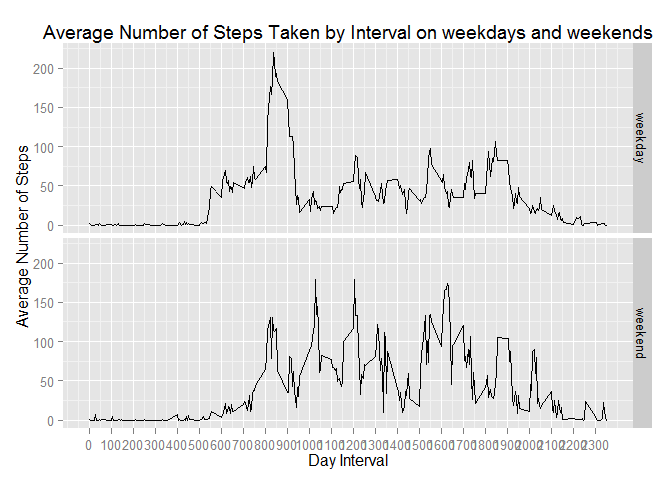
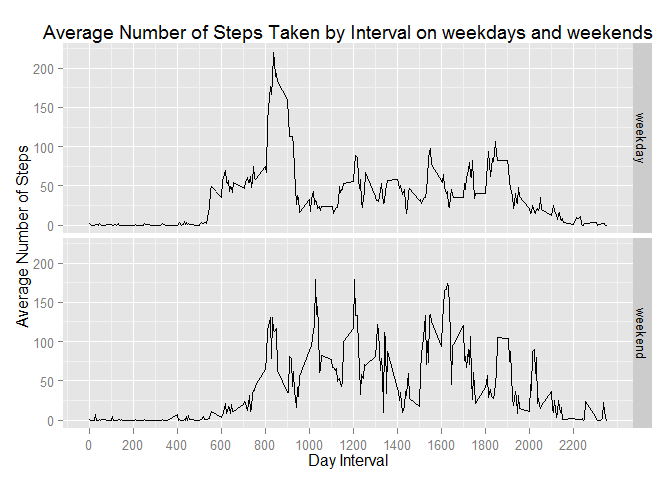
updated time series plots

diff --git a/PA1_template.html b/PA1_template.html
@@ -111,9 +111,9 @@ hplot</code></pre>
 <h2>What is the average daily activity pattern?</h2>
 <p>Lets make a time series plot (i.e. type = “l”) of the 5-minute interval (x-axis) and the average number of steps taken, averaged across all days (y-axis)</p>
 <pre class="r"><code>groupby_Interval &lt;- data %&gt;% group_by(interval)%&gt;% summarize (avgSteps = mean (steps, na.rm = TRUE))
-lplot &lt;- ggplot(data = groupby_Interval, mapping = aes(x = interval, y= avgSteps)) + geom_line(colour = &quot;blue&quot;) + scale_x_continuous(&quot;interval of the day&quot;, breaks = seq(min(groupby_Interval$interval), max(groupby_Interval$interval), 100)) + scale_y_continuous(&quot;Average Number of Steps&quot;) +  ggtitle(&quot;Average Number of Steps taken by interval&quot;)
+lplot &lt;- ggplot(data = groupby_Interval, mapping = aes(x = interval, y= avgSteps)) + geom_line(colour = &quot;blue&quot;) + scale_x_continuous(&quot;interval of the day&quot;, breaks = seq(min(groupby_Interval$interval), max(groupby_Interval$interval), 200)) + scale_y_continuous(&quot;Average Number of Steps&quot;) +  ggtitle(&quot;Average Number of Steps taken by interval&quot;)
 lplot</code></pre>
[2 lines of base64/hex data omitted]
 <pre class="r"><code>interval_MaxSteps &lt;- filter (groupby_Interval, avgSteps == max(groupby_Interval$avgSteps) )
 interval_MaxSteps</code></pre>
 <pre><code>## Source: local data frame [1 x 2]
@@ -159,10 +159,11 @@ hplot2</code></pre>
 <p>Group by interval and dayType and claculate Average number of steps</p>
 <pre class="r"><code>groupby_IntervalDaytype &lt;- data2 %&gt;% group_by(interval, dayType) %&gt;% summarise(avg2Steps = mean(steps))</code></pre>
 <pre class="r"><code>lplot_panel &lt;- ggplot(data = groupby_IntervalDaytype, mapping = aes(x = interval, y = avg2Steps)) +  geom_line() + facet_grid(dayType ~ .) + scale_x_continuous(&quot;Day Interval&quot; , 
-    breaks = seq(min(groupby_IntervalDaytype$interval), max(groupby_IntervalDaytype$interval), 100)) + 
+    breaks = seq(min(groupby_IntervalDaytype$interval), max(groupby_IntervalDaytype$interval), 200)) + 
     scale_y_continuous(&quot;Average Number of Steps&quot;) + ggtitle(&quot;Average Number of Steps Taken by Interval on weekdays and weekends&quot;)
 lplot_panel</code></pre>
[2 lines of base64/hex data omitted]
+<p>There is a difference between weekdays and weekends. On weekdays, number of steps peak somewhere around 225 steps at 830 am where as on weekends peaks are seen around 175 steps at 10:15 am, 12:00 pm and 04:15 pm.</p>
 </div>
 
 

diff --git a/PA1_template.md b/PA1_template.md
@@ -89,7 +89,7 @@ Lets make a time series plot (i.e. type = "l") of the 5-minute interval (x-axis)
 
 ```r
 groupby_Interval <- data %>% group_by(interval)%>% summarize (avgSteps = mean (steps, na.rm = TRUE))
-lplot <- ggplot(data = groupby_Interval, mapping = aes(x = interval, y= avgSteps)) + geom_line(colour = "blue") + scale_x_continuous("interval of the day", breaks = seq(min(groupby_Interval$interval), max(groupby_Interval$interval), 100)) + scale_y_continuous("Average Number of Steps") +  ggtitle("Average Number of Steps taken by interval")
+lplot <- ggplot(data = groupby_Interval, mapping = aes(x = interval, y= avgSteps)) + geom_line(colour = "blue") + scale_x_continuous("interval of the day", breaks = seq(min(groupby_Interval$interval), max(groupby_Interval$interval), 200)) + scale_y_continuous("Average Number of Steps") +  ggtitle("Average Number of Steps taken by interval")
 lplot
 ```
 
@@ -191,10 +191,11 @@ groupby_IntervalDaytype <- data2 %>% group_by(interval, dayType) %>% summarise(a
 
 ```r
 lplot_panel <- ggplot(data = groupby_IntervalDaytype, mapping = aes(x = interval, y = avg2Steps)) +  geom_line() + facet_grid(dayType ~ .) + scale_x_continuous("Day Interval" , 
-    breaks = seq(min(groupby_IntervalDaytype$interval), max(groupby_IntervalDaytype$interval), 100)) + 
+    breaks = seq(min(groupby_IntervalDaytype$interval), max(groupby_IntervalDaytype$interval), 200)) + 
     scale_y_continuous("Average Number of Steps") + ggtitle("Average Number of Steps Taken by Interval on weekdays and weekends")
 lplot_panel
 ```
 
 ![plot of chunk unnamed-chunk-14](./PA1_template_files/figure-html/unnamed-chunk-14.png) 
-There is a difference between weekdays and weekends. On weekdays, number of steps peak somewhere around 225 steps at 830 am where as on weekends peaks are seen around 175 steps at 10:15 am, 2:00 pm and 06:15 pm.
+
+There is a difference between weekdays and weekends. On weekdays, number of steps peak somewhere around 225 steps at 830 am where as on weekends peaks are seen around 175 steps at 10:15 am, 12:00 pm and 04:15 pm.
